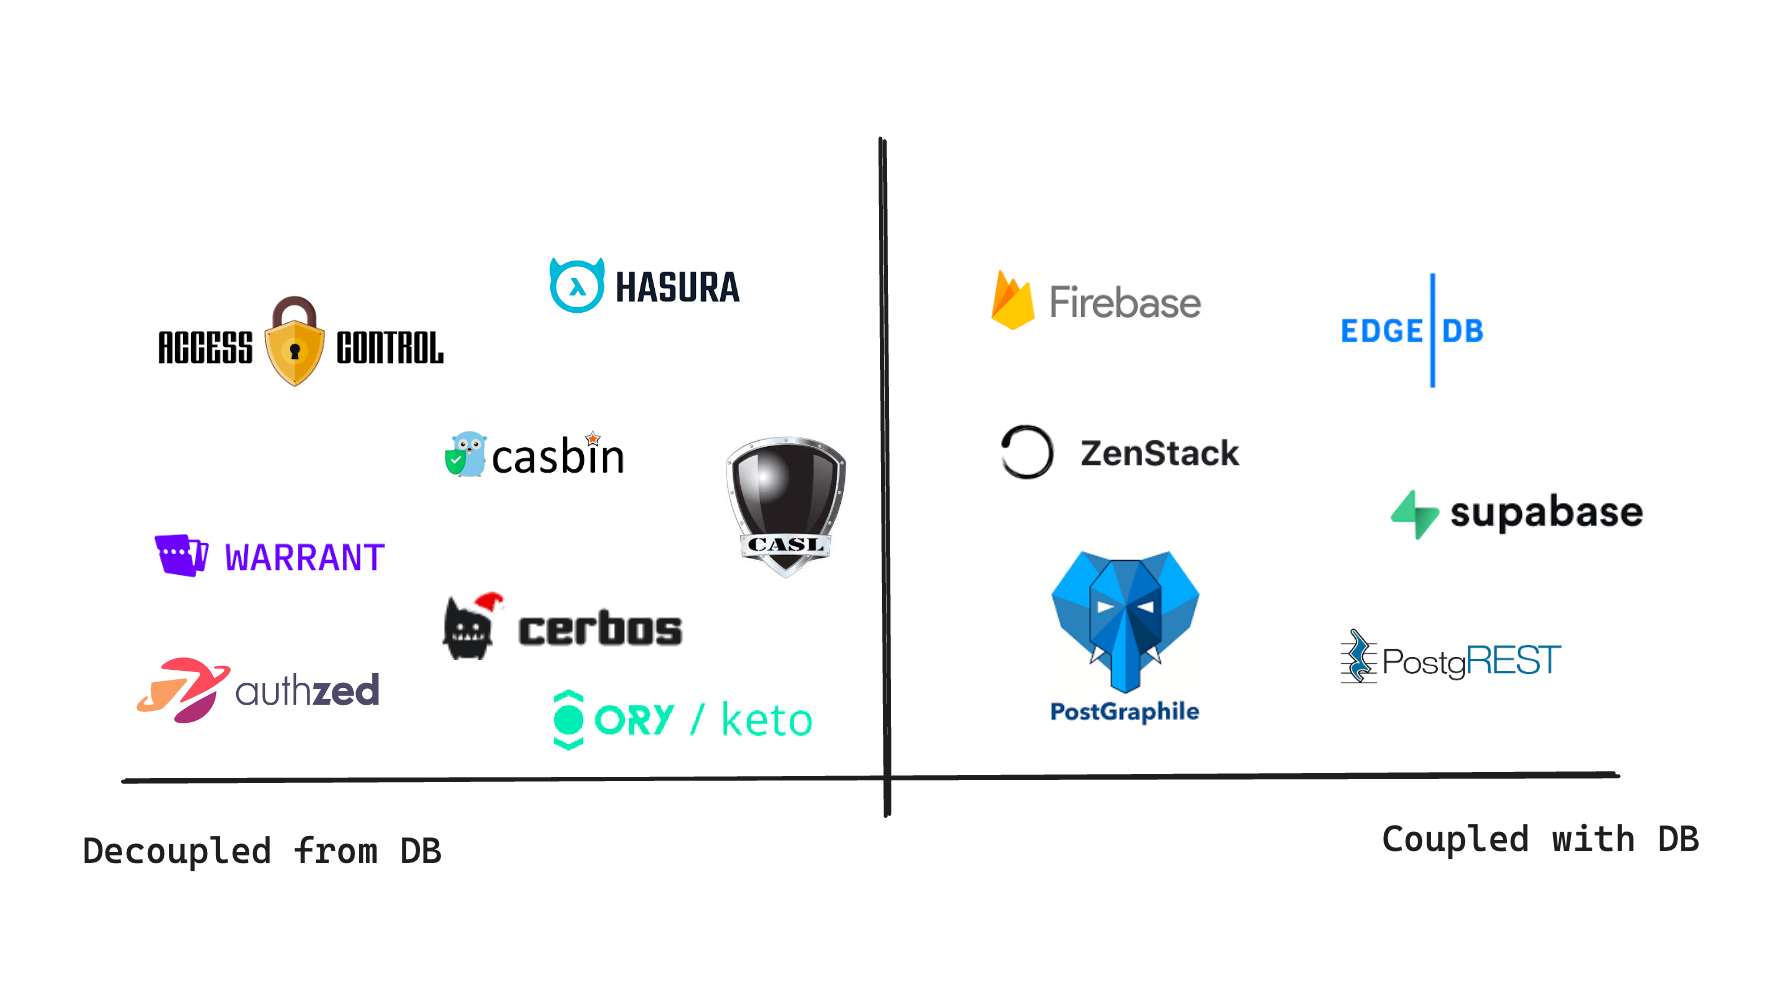
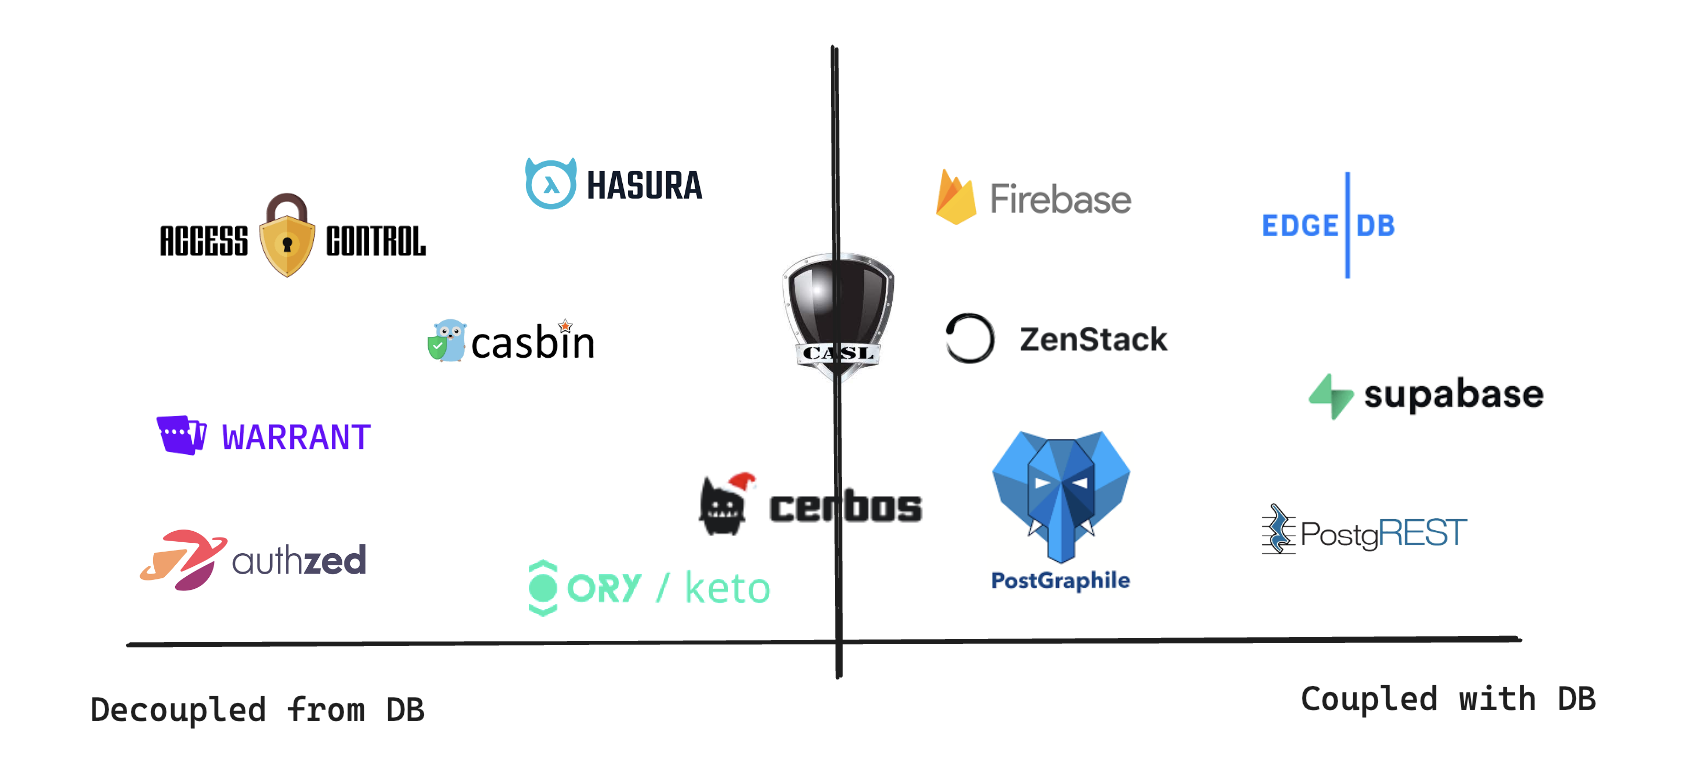
blog: part2 of authz decision framework (#244)

diff --git a/blog/how-to-authz-2/index.md b/blog/how-to-authz-2/index.md
@@ -1,0 +1,112 @@
+---
+title: 'How to Do Authorization - A Decision Framework: Part 2'
+description: A comparison of different approaches to implement authorization - those run inside your application and those as standalone services.
+tags: [authorization, webdev]
+authors: yiming
+date: 2024-02-05
+image: ./cover.jpg
+---
+
+# How to Do Authorization - A Decision Framework: Part 2
+
+![Cover Image](cover.jpg)
+
+In the [previous post](/blog/how-to-authz), we discussed two different approaches to implementing authorization: coupled with the database and decoupled from it. In this post, we'll focus on the other axis of the quadrant: authorization embedded inside the application vs. as a separate service. Let's complete the second half of the quadrant.
+
+<!-- truncate -->
+
+![Starting quadrant](starting-quadrant.png)
+
+## Embedded vs. As-a-Service
+
+If you implement AuthZ yourself, you'll likely just write them as part of your service code. So, the authorization runs as an embedded module of your application. Even if you choose to use a third-party solution, the default route seems to be finding a suitable library, installing it, and calling its APIs (functions) from your application code.
+
+However, with the cloud computing boom, everything can be offered as a cloud service - data storage, authentication, content management, payment, etc. Authorization is no exception. There are now many providers that provide authorization as standalone services.
+
+### Embedded
+
+An embedded AuthZ solution resides inside an existing service. The service is usually your application's backend, but it can also be something else (like a database).
+
+The most straightforward form of embedded AuthZ is libraries that help you model access control. In the previous part, we've seen how you can use [CASL](https://casl.js.org/) to define access rules and then check for permissions. [ZenStack](https://zenstack.dev) is also an embedded AuthZ, with a unique approach to wrap around Prisma to turn the ORM into a secure data access layer. You can find more solutions in library forms like [accesscontrol](https://github.com/onury/accesscontrol), [casbin](https://casbin.org/), etc.
+
+Another form of embedded AuthZ is those that are built-in features of databases. In the previous post, we've seen how Postgres's RLS feature allows you to define complex access control rules inside the database directly. [Firebase](https://firebase.google.com/) and [EdgeDB](https://www.edgedb.com/) are also excellent examples of this category.
+
+### Pros & Cons
+
+Having AuthZ as part of an existing service has some clear benefits:
+
+- **Ease of operation**: it doesn't increase the number of services you need to manage. You don't need to worry about one more deployment environment.
+- **Debugging**: if AuthZ is embedded in your backend service, debugging is easy since you can see a combined stack trace and easily single-step deep into its logic as needed.
+- **Performance**: access control checks don't involve extra calls across the network. If the AuthZ is coupled with the database, it usually has optimal performance in controlling CRUD access to the database entities.
+
+Some drawbacks are:
+
+- **Hard to share**: AuthZ as libraries typically maintain their own state inside the hosting service. This makes it difficult to share a set of common access control policies across multiple services and keep them always in sync.
+- **Hard to scale**: if your application grows into hyper-scale, you'll likely find the AuthZ part to have its own sophisticated persistence, caching needs and its own performance characteristics. It makes more sense to spin it out as a scalable service.
+- **Language lock-in**: if you choose a library, you're usually locked into the language it supports.
+
+### As-a-Service
+
+AuthZ-as-a-Service is the kind of cloud service that's either dedicated to solving authorization problems or at least has AuthZ as a central part of it.
+
+AuthZ-as-a-Service became popular with the publication of the [Zanzibar paper](https://research.google/pubs/zanzibar-googles-consistent-global-authorization-system/) by Google. Zanzibar described how Google successfully built a global, consistent, and scalable authorization system that's used by many of its products, serving billions of users. Since then, many OSS and commercial products have implemented Zanzibar-like systems, like [Authzed](https://authzed.com/), [Ory Keto](https://www.ory.sh/keto/), [Warrant](https://warrant.dev/), etc., to name a few.
+
+It should be noted that AuthZ-as-a-Service is not just about Zanzibar. Products like [Hasura](https://hasura.io/) have started to provide AuthZ capabilities long before that.
+
+### Pros & Cons
+
+Separating AuthZ as a standalone service brings us several benefits:
+
+- **Centralized access control**: if you have multiple applications with a shared authorization model, having a standalone AuthZ service is the best way to manage them in a centralized way.
+- **Language agnostic**: since it's a service (most likely RESTful or GraphQL), it's usually language agnostic.
+- **Scalability**: it's easier to scale a standalone service. Commercial services usually have built-in elasticity.
+
+But it also has its drawbacks:
+
+- **Synchronization complexity**: you need to make sure everything related to access control is synchronized to the service: a new user, a new resource, a new relationship, a new piece of rule, etc.
+- **Performance**: synchronization and permission queries must go across the network and are much slower than in-process access.
+- **Operational costs**: self-hosting a new service is often not trivial and involves constant care. Commercial services move the burden away from you at the cost of giving up control.
+
+## Decision Factors
+
+Running AuthZ as an in-process module and as a service has vast differences. I'll list a few factors that you can use to decide which way to go.
+
+**Signs for choosing embedded**:
+
+- It should be the default choice for small to medium-sized applications.
+- Your AuthZ requirements are deeply coupled with the database.
+
+**Signs for choosing as-a-service**:
+
+- You have multiple applications that need to share the same authorization scheme.
+- Your backend services are implemented in multiple languages.
+- You want to avoid building a backend completely and will leverage a BaaS (Backend-as-a-Service). AuthZ is usually a central pillar of a BaaS system.
+
+## The Final Quadrant
+
+We've now completed our dichotomy of AuthZ solutions along the second axis - embedded vs. as-a-service. Here's the final quadrant with products and projects in their respective categories.
+
+![Final quadrant](final-quadrant.png)
+
+You've probably noticed the bottom right corner is quite empty. One of the most significant benefits of AuthZ-as-a-Service is managing access control across multiple services or applications. Individual service or application may have their private database, so it's not practical to make the AuthZ directly couple with any of them.
+
+---
+
+### Solution Catalog
+
+- [accesscontrol](https://github.com/onury/accesscontrol)
+- [authzed](https://authzed.com/)
+- [casbin](https://casbin.org/)
+- [CASL](https://casl.js.org/)
+- [cerbos](https://cerbos.dev/)
+- [edgedb](https://www.edgedb.com/)
+- [firebase](https://firebase.google.com/)
+- [hasura](https://hasura.io/)
+- [ory/keto](https://www.ory.sh/keto/)
+- [Permit.io](https://www.permit.io/)
+- [Permify](https://www.permify.co/)
+- [PostGraphile](https://www.graphile.org/postgraphile)
+- [PostgREST](https://postgrest.org/)
+- [Supabase](https://supabase.com/)
+- [Warrant](https://warrant.dev/)
+- [ZenStack](https://zenstack.dev/)

diff --git a/blog/how-to-authz/index.md b/blog/how-to-authz/index.md
@@ -254,14 +254,15 @@ Decoupling authorization from the application's data model has several advantage
 
 - **Separation of concerns**: you can let these two things evolve relatively independently and swap one implementation without affecting the other.
     
-- **Isomorphic authorization**: libraries like CASL allow you to model authorization the same way in the back and frontend. Although you cannot trust the frontend's judgement for access control, it's very useful for rending UI components conditionally. Another scenario is authorizing access to first-party (database) and third-party (API) data. Using a database-independent authorization allows you to achieve a homogeneous implementation.
+- **Isomorphic authorization**: libraries like [CASL](https://casl.js.org/) allow you to model authorization the same way in the back and frontend. Although you cannot trust the frontend's judgement for access control, it's very useful for rending UI components conditionally. Another scenario is authorizing access to first-party (database) and third-party (API) data. Using a database-independent authorization allows you to achieve a homogeneous implementation.
     
-
 There are prices to pay when using decoupled authorization:
 
 - **Synchronization**: no matter whether you use a library or a service, you need to pull out information from your database and sync it to the authorization side, introducing extra complexity.
     
 - **Performance**: although Authz libraries and services can be highly optimized for performance, in many cases, you can't avoid reading data out of the database and then discard it due to policy filtering.
+
+It should be noted that some decoupled solutions, like [CASL](https://casl.js.org/) and [cerbos](https://cerbos.dev), try to mitigate the performance problem by providing a way to generate data query filters (usually by integrating with ORM) based on authorization rules. You can merge the filters into the database query to achieve optimal performance.
 
 ## Decision Factors
 
@@ -284,25 +285,4 @@ We’ve seen how coupled and decoupled authorization solutions work together wit
 
 ![Updated quadrant](updated-quadrant.png)
 
-In the next part (coming soon), we'll focus on the other axis of the quadrant: authorization embedded inside the application vs. as a separate service.
-
-Stay tuned!
-
----
-
-### Solution Catalog
-
-- [accesscontrol](https://github.com/onury/accesscontrol)
-- [authzed](https://authzed.com/)
-- [casbin](https://casbin.org/)
-- [CASL](https://casl.js.org/)
-- [cerbos](https://cerbos.dev/)
-- [edgedb](https://www.edgedb.com/)
-- [firebase](https://firebase.google.com/)
-- [hasura](https://hasura.io/)
-- [ory/keto](https://www.ory.sh/keto/)
-- [PostGraphile](https://www.graphile.org/postgraphile)
-- [PostgREST](https://postgrest.org/)
-- [Supabase](https://supabase.com/)
-- [Warrant](https://warrant.dev/)
-- [ZenStack](https://zenstack.dev/)
+In the [next part](/blog/how-to-authz-2/), we'll focus on the other axis of the quadrant: authorization embedded inside the application vs. as a separate service.
